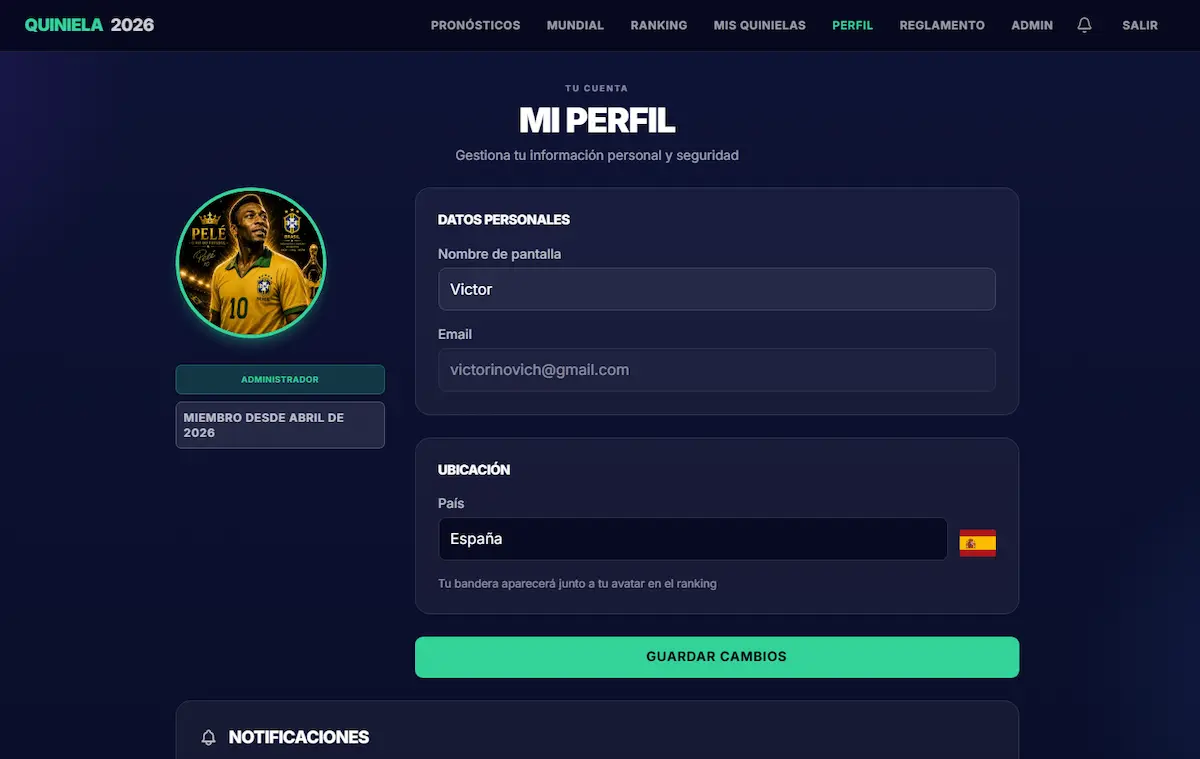
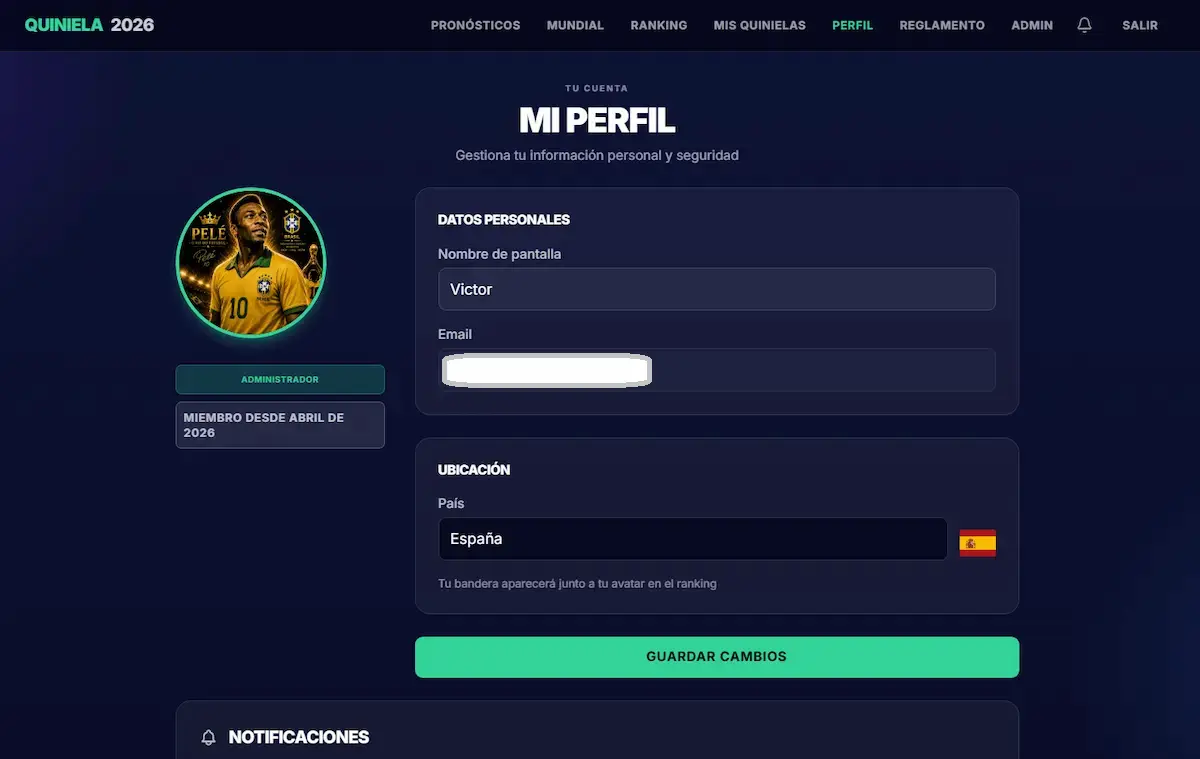
documentacion 4

Changed region(s): [[0.37, 0.4545, 0.555, 0.5152]]

diff --git a/README.md b/README.md
@@ -13,7 +13,7 @@
 
 **Una aplicación web moderna, escalable y segura para gestionar quinielas del Mundial de Fútbol 2026.**
 
-[🚀 Demo en Vivo](#) • [📖 Documentación](./docs/) • [🐛 Reportar Bug](#)
+[[📖 Documentación](./docs/) • [🐛 Reportar Bug](#)
 
 </div>
 
